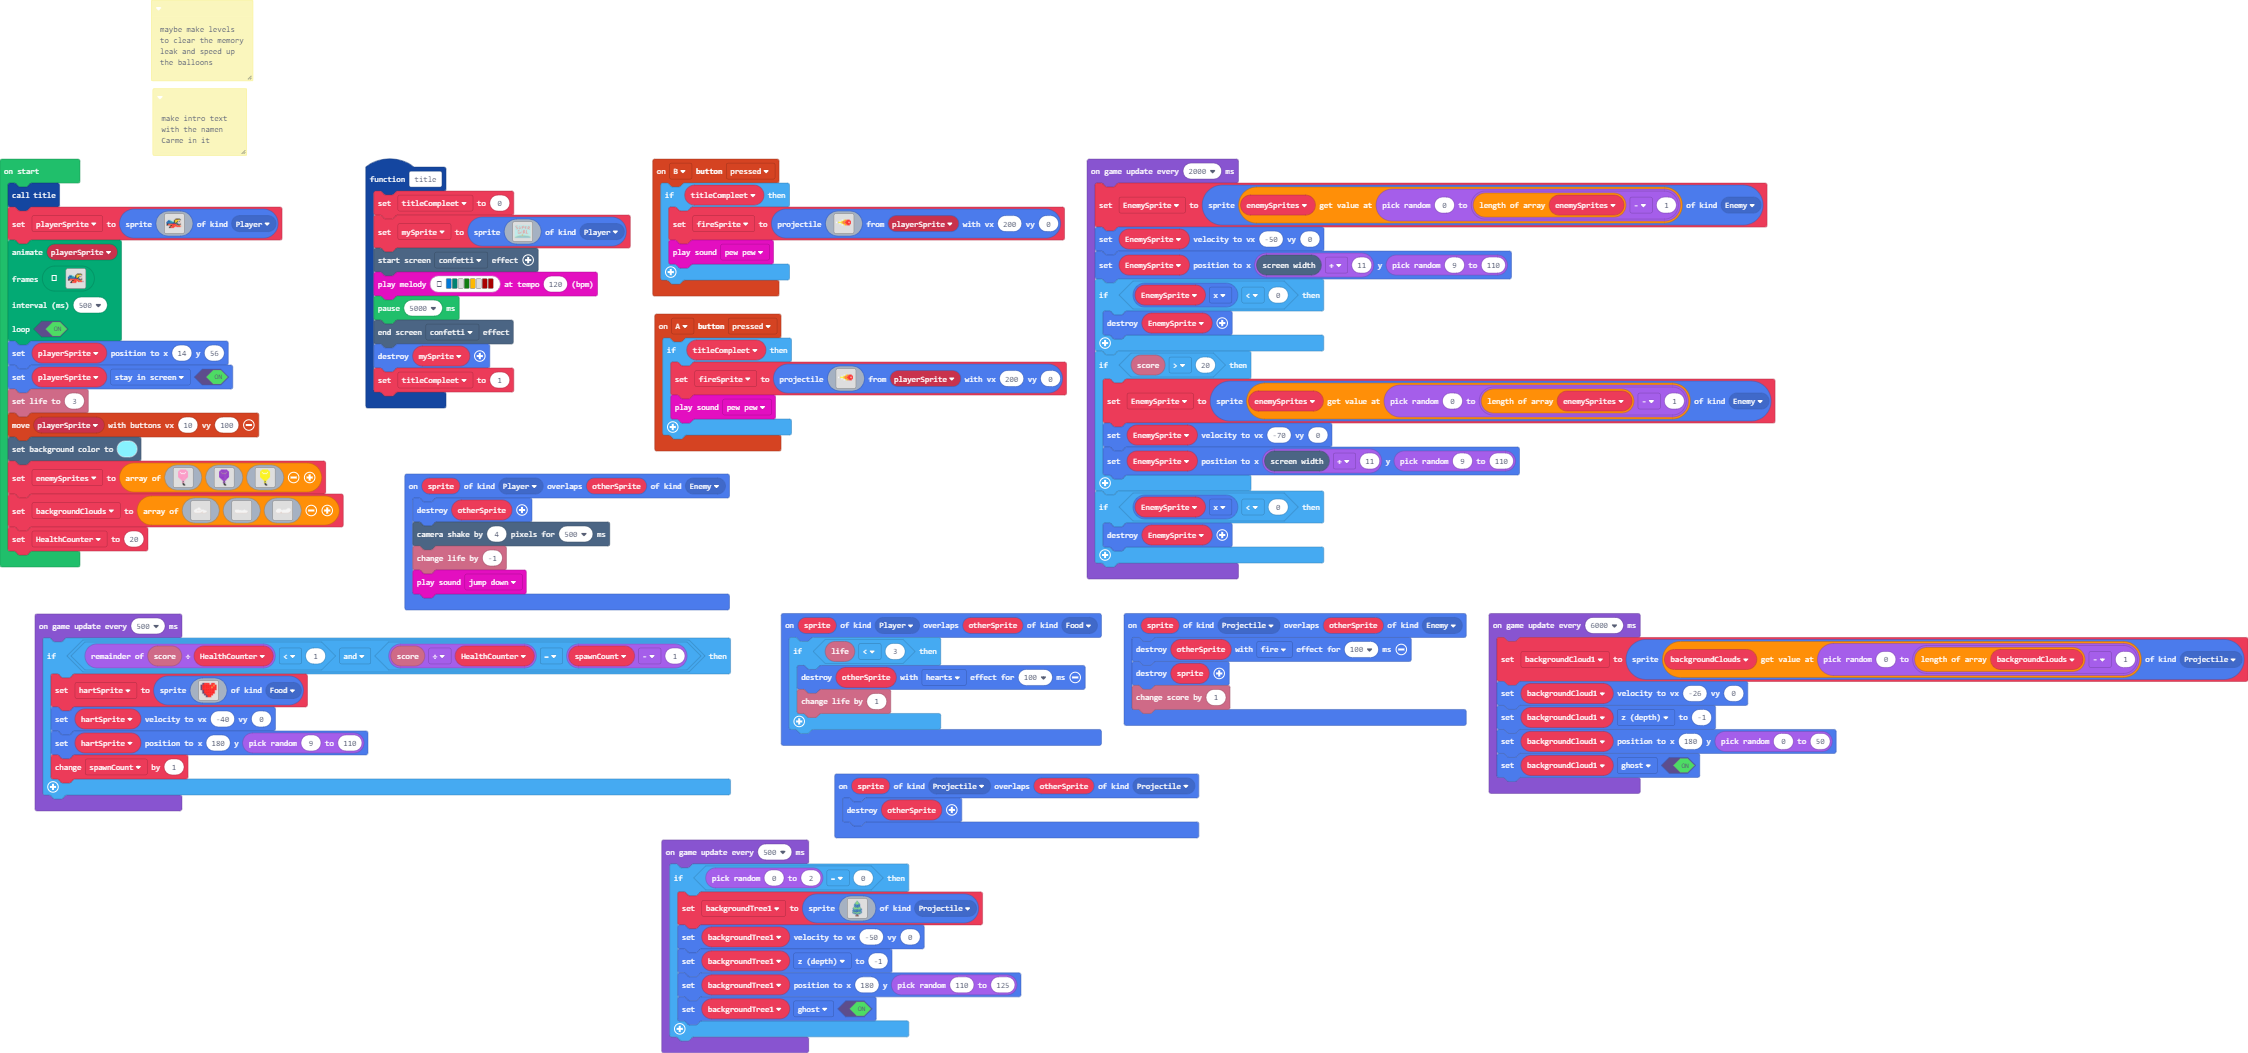
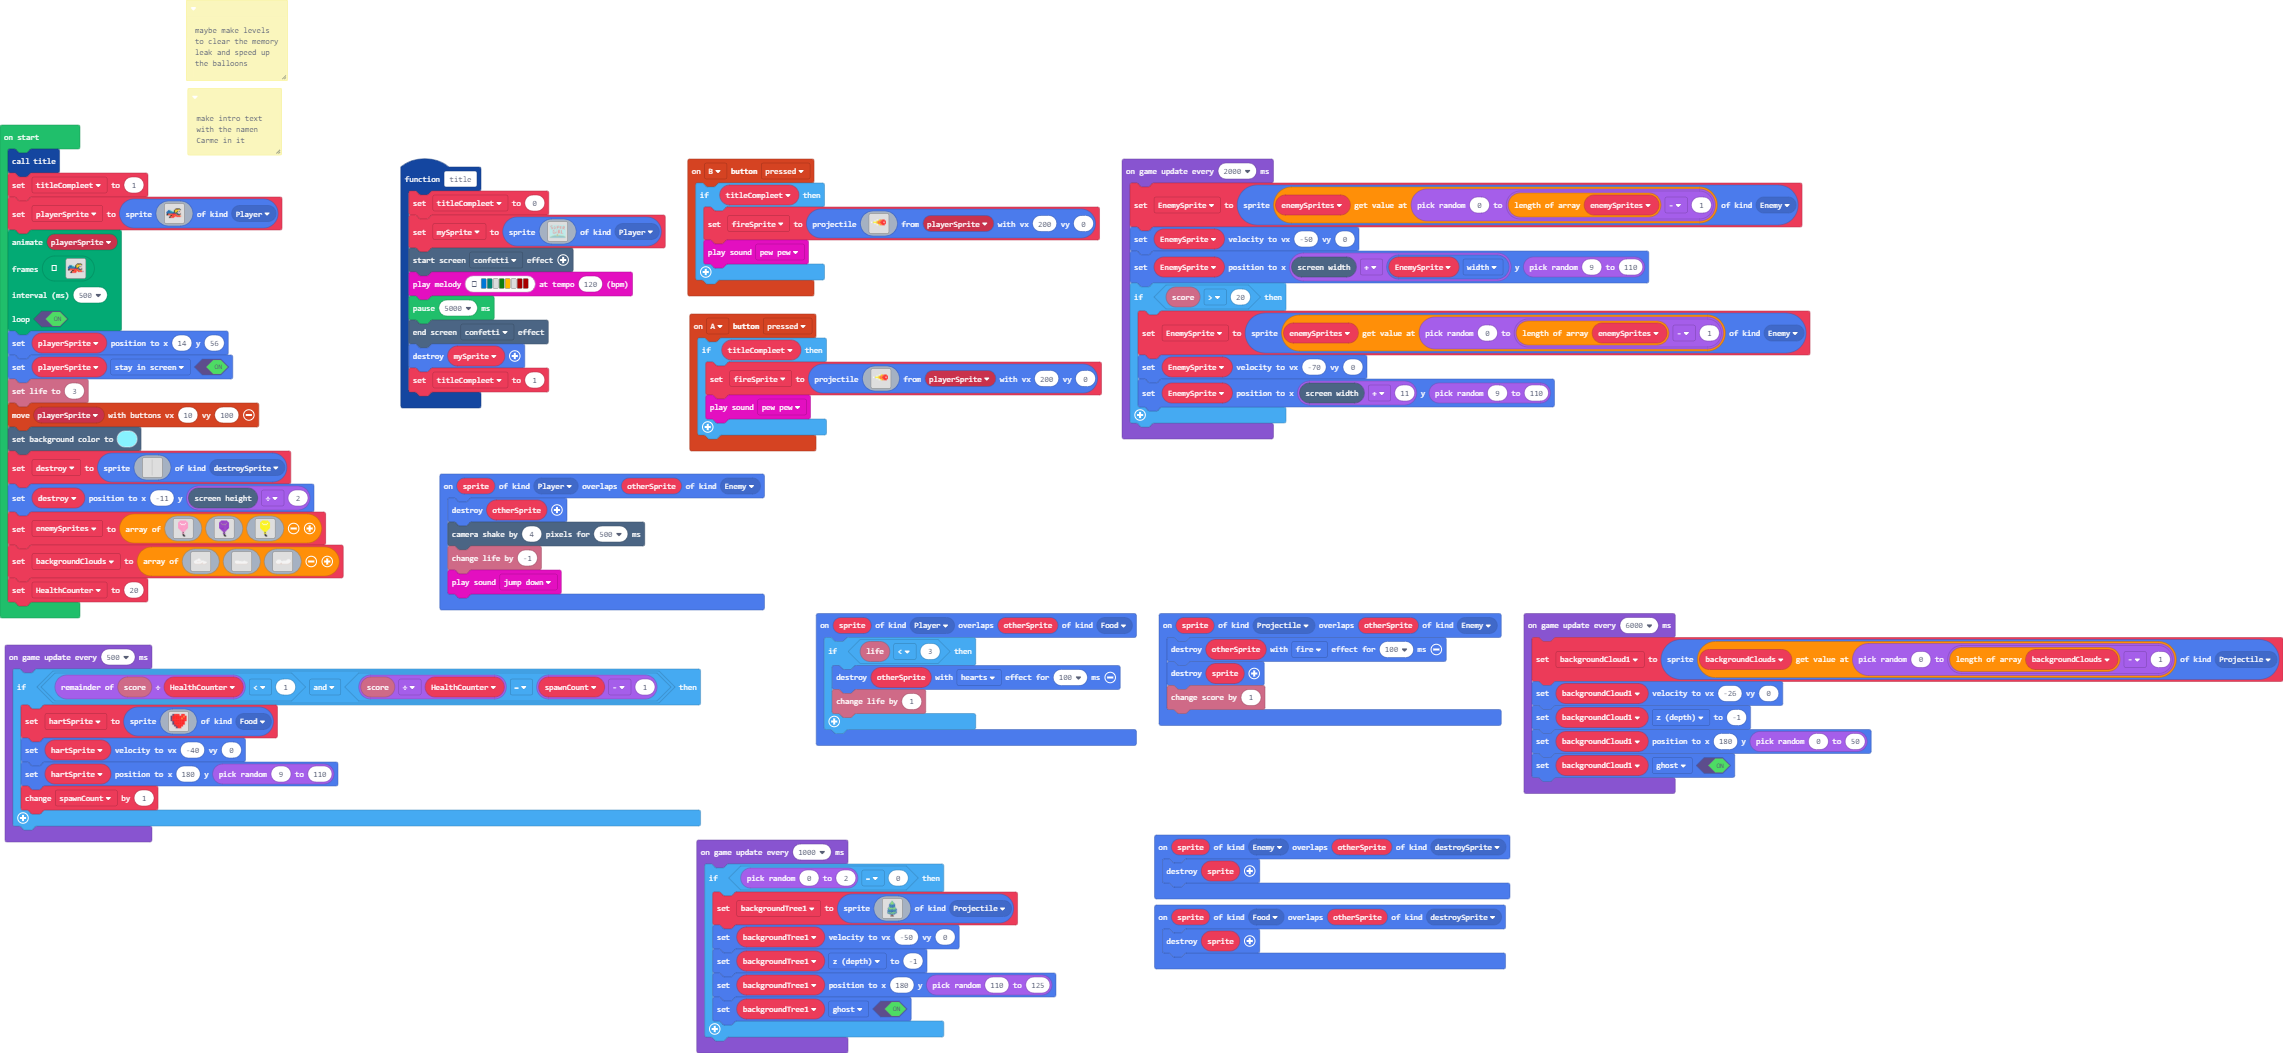
Update main.blocks, main.ts

Changed region(s): [[0.0, 0.0, 0.9653, 1.0], [0.4048, 0.9725, 0.4359, 1.0], [0.3114, 0.547, 0.3425, 0.5774]]

diff --git a/main.ts b/main.ts
@@ -1,5 +1,6 @@
 namespace SpriteKind {
     export const background = SpriteKind.create()
+    export const destroySprite = SpriteKind.create()
 }
 /**
  * maybe make levels 
@@ -184,8 +185,11 @@ controller.A.onEvent(ControllerButtonEvent.Pressed, function () {
         music.pewPew.play()
     }
 })
-sprites.onOverlap(SpriteKind.Projectile, SpriteKind.Projectile, function (sprite, otherSprite) {
-    otherSprite.destroy()
+sprites.onOverlap(SpriteKind.Food, SpriteKind.destroySprite, function (sprite, otherSprite) {
+    sprite.destroy()
+})
+sprites.onOverlap(SpriteKind.Enemy, SpriteKind.destroySprite, function (sprite, otherSprite) {
+    sprite.destroy()
 })
 sprites.onOverlap(SpriteKind.Player, SpriteKind.Enemy, function (sprite, otherSprite) {
     otherSprite.destroy()
@@ -196,16 +200,17 @@ sprites.onOverlap(SpriteKind.Player, SpriteKind.Enemy, function (sprite, otherSp
 /**
  * make intro text with the namen Carme in it
  */
-let backgroundCloud1: Sprite = null
 let backgroundTree1: Sprite = null
+let backgroundCloud1: Sprite = null
 let hartSprite: Sprite = null
 let spawnCount = 0
 let EnemySprite: Sprite = null
 let fireSprite: Sprite = null
 let mySprite: Sprite = null
-let titleCompleet = 0
 let playerSprite: Sprite = null
+let titleCompleet = 0
 title()
+titleCompleet = 1
 playerSprite = sprites.create(img`
 . . . . . . . . . . . f f f f f . . . 
 . . . . . . . . . . f 5 4 4 5 5 f . . 
@@ -254,6 +259,137 @@ playerSprite.setFlag(SpriteFlag.StayInScreen, true)
 info.setLife(3)
 controller.moveSprite(playerSprite, 10, 100)
 scene.setBackgroundColor(9)
+let destroy = sprites.create(img`
+f f 
+f f 
+f f 
+f f 
+f f 
+f f 
+f f 
+f f 
+f f 
+f f 
+f f 
+f f 
+f f 
+f f 
+f f 
+f f 
+f f 
+f f 
+f f 
+f f 
+f f 
+f f 
+f f 
+f f 
+f f 
+f f 
+f f 
+f f 
+f f 
+f f 
+f f 
+f f 
+f f 
+f f 
+f f 
+f f 
+f f 
+f f 
+f f 
+f f 
+f f 
+f f 
+f f 
+f f 
+f f 
+f f 
+f f 
+f f 
+f f 
+f f 
+f f 
+f f 
+f f 
+f f 
+f f 
+f f 
+f f 
+f f 
+f f 
+f f 
+f f 
+f f 
+f f 
+f f 
+f f 
+f f 
+f f 
+f f 
+f f 
+f f 
+f f 
+f f 
+f f 
+f f 
+f f 
+f f 
+f f 
+f f 
+f f 
+f f 
+f f 
+f f 
+f f 
+f f 
+f f 
+f f 
+f f 
+f f 
+f f 
+f f 
+f f 
+f f 
+f f 
+f f 
+f f 
+f f 
+f f 
+f f 
+f f 
+f f 
+f f 
+f f 
+f f 
+f f 
+f f 
+f f 
+f f 
+f f 
+f f 
+f f 
+f f 
+f f 
+f f 
+f f 
+f f 
+f f 
+f f 
+f f 
+f f 
+f f 
+f f 
+f f 
+f f 
+f f 
+f f 
+f f 
+f f 
+f f 
+`, SpriteKind.destroySprite)
+destroy.setPosition(-11, scene.screenHeight() / 2)
 let enemySprites = [img`
 . . 3 3 3 3 3 3 3 . . 
 . 3 3 3 3 3 3 3 3 3 . 
@@ -380,17 +516,11 @@ let HealthCounter = 20
 game.onUpdateInterval(2000, function () {
     EnemySprite = sprites.create(enemySprites[Math.randomRange(0, enemySprites.length - 1)], SpriteKind.Enemy)
     EnemySprite.setVelocity(-50, 0)
-    EnemySprite.setPosition(scene.screenWidth() + 11, Math.randomRange(9, 110))
-    if (EnemySprite.x < 0) {
-        EnemySprite.destroy()
-    }
+    EnemySprite.setPosition(scene.screenWidth() + EnemySprite.width, Math.randomRange(9, 110))
     if (info.score() > 20) {
         EnemySprite = sprites.create(enemySprites[Math.randomRange(0, enemySprites.length - 1)], SpriteKind.Enemy)
         EnemySprite.setVelocity(-70, 0)
         EnemySprite.setPosition(scene.screenWidth() + 11, Math.randomRange(9, 110))
-    }
-    if (EnemySprite.x < 0) {
-        EnemySprite.destroy()
     }
 })
 game.onUpdateInterval(500, function () {
@@ -410,7 +540,14 @@ c 2 2 2 2 2 2 2 2
         spawnCount += 1
     }
 })
-game.onUpdateInterval(500, function () {
+game.onUpdateInterval(6000, function () {
+    backgroundCloud1 = sprites.create(backgroundClouds[Math.randomRange(0, backgroundClouds.length - 1)], SpriteKind.Projectile)
+    backgroundCloud1.setVelocity(-26, 0)
+    backgroundCloud1.z = -1
+    backgroundCloud1.setPosition(180, Math.randomRange(0, 50))
+    backgroundCloud1.setFlag(SpriteFlag.Ghost, true)
+})
+game.onUpdateInterval(1000, function () {
     if (Math.randomRange(0, 2) == 0) {
         backgroundTree1 = sprites.create(img`
 . . . . . . . . . . . . . . . . . . . . . . . . 
@@ -459,11 +596,4 @@ game.onUpdateInterval(500, function () {
         backgroundTree1.setPosition(180, Math.randomRange(110, 125))
         backgroundTree1.setFlag(SpriteFlag.Ghost, true)
     }
-})
-game.onUpdateInterval(6000, function () {
-    backgroundCloud1 = sprites.create(backgroundClouds[Math.randomRange(0, backgroundClouds.length - 1)], SpriteKind.Projectile)
-    backgroundCloud1.setVelocity(-26, 0)
-    backgroundCloud1.z = -1
-    backgroundCloud1.setPosition(180, Math.randomRange(0, 50))
-    backgroundCloud1.setFlag(SpriteFlag.Ghost, true)
 })
